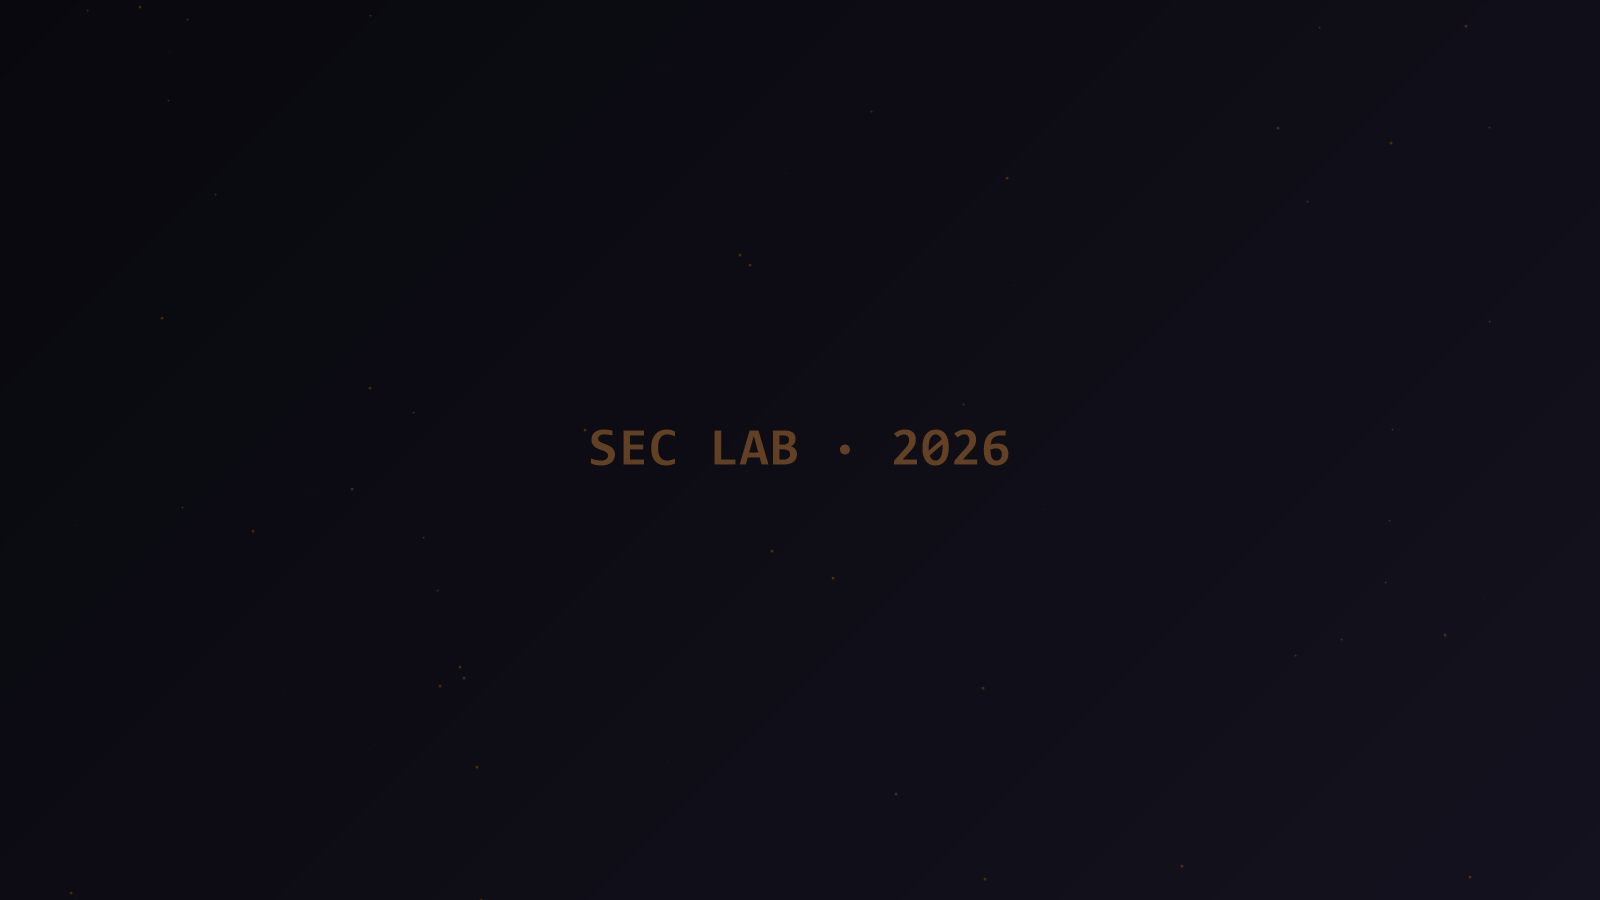
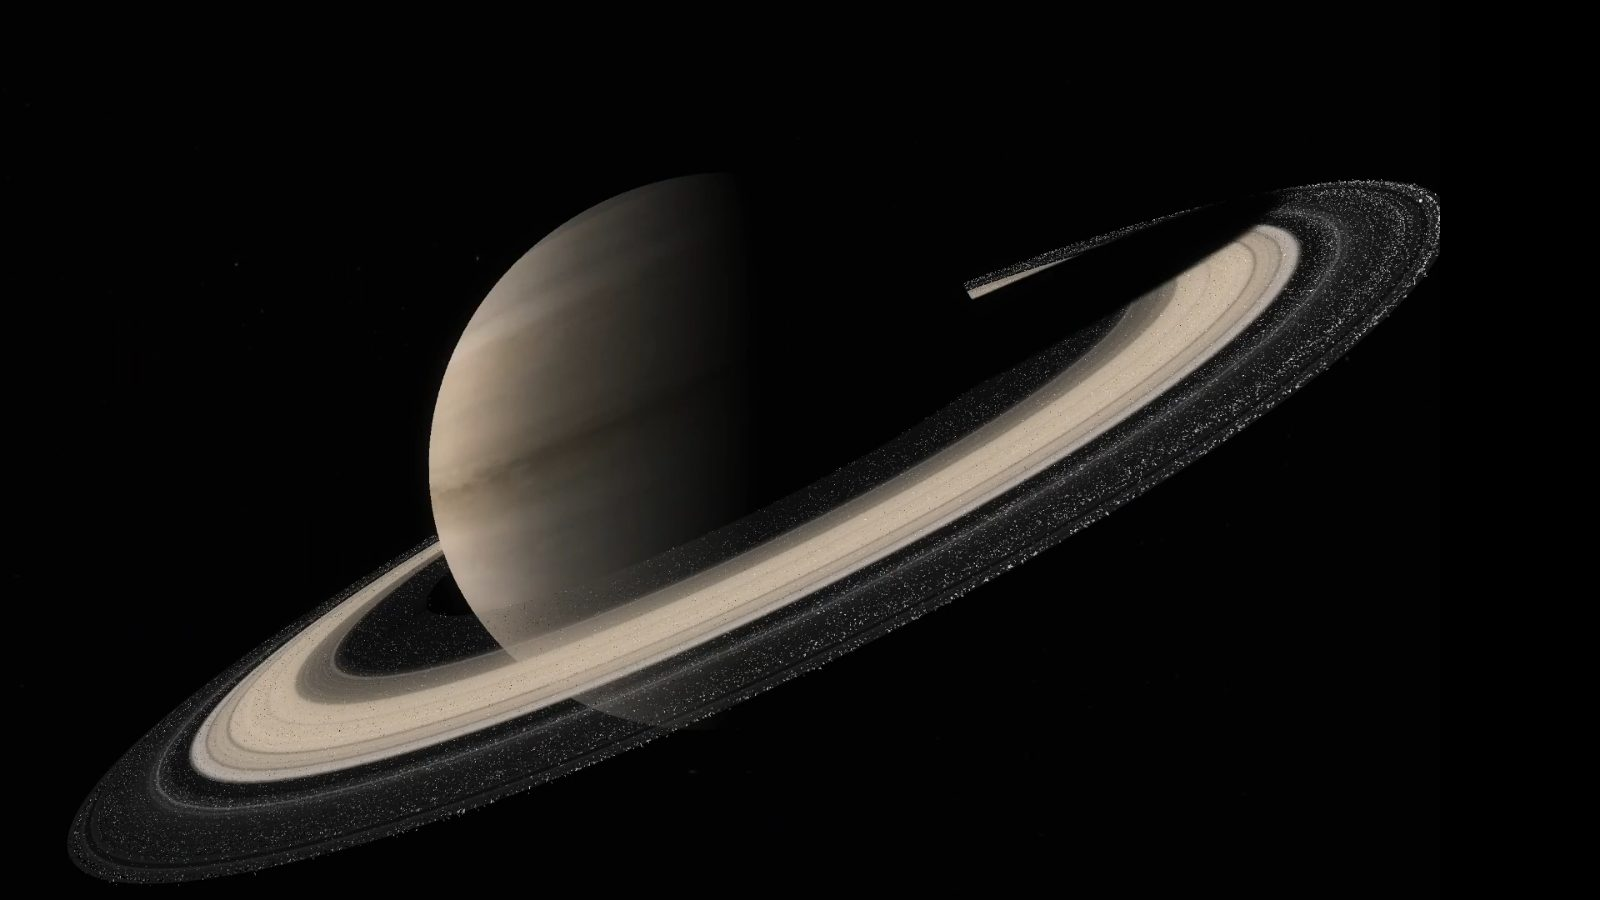
feat(research): 活动栏目背景改用视频截帧（行星），含移动端竖版；去除全屏请求

diff --git a/src/scripts/landscape.js b/src/scripts/landscape.js
@@ -6,9 +6,10 @@
  * 实现：
  *   - 仅对触屏移动设备生效（桌面端不受影响）；
  *   - 竖屏时动态注入一个全屏遮罩，覆盖所有内容并拦截点击；
- *   - 遮罩内提供「自动横屏」按钮：请求全屏并锁定横屏方向
- *     （Android Chrome 支持；iOS Safari 不支持元素级全屏/方向锁，
- *      此时按钮无效，仍提示用户手动旋转）；
+ *   - 遮罩内提供「自动横屏」按钮：仅尝试锁定横屏方向，**绝不请求全屏**
+ *     （请求全屏会导致 QQ/UC/百度等 X5 内核把页面内的 <video> 提升为
+ *      原生全屏播放器且需手动退出）。方向锁通常要求全屏，故多数浏览器
+ *      会失败，此时按钮改为提示「请手动旋转手机」；
  *   - 横屏时遮罩自动移除，恢复正常使用；
  *   - 监听 resize 与 orientationchange，即时响应方向变化。
  *   - 对外暴露 window.SecRequestLandscape()，供「进入」等用户手势调用。

diff --git a/index.html b/index.html
@@ -22,7 +22,7 @@
     <link rel="stylesheet" href="./src/styles/headquarters.css" />
     <link rel="stylesheet" href="./src/styles/member.css" />
     <link rel="stylesheet" href="./src/styles/department.css" />
-    <link rel="stylesheet" href="./src/styles/research.css?v=20260923c" />
+    <link rel="stylesheet" href="./src/styles/research.css?v=20260923d" />
     <link rel="stylesheet" href="./src/styles/modal.css" />
     <link rel="stylesheet" href="./src/styles/particle.css" />
     <link rel="stylesheet" href="./src/styles/mobile.css?v=20260923c" />
@@ -654,7 +654,7 @@
             x5-video-player-fullscreen="false"
             disablepictureinpicture
             preload="metadata"
-            poster="./assets/images/backgrounds/research_poster.jpg"
+            poster="./assets/images/backgrounds/research_poster.jpg?v=20260923d"
           >
             <source src="./assets/images/ui/vedio/Video Project.mp4" type="video/mp4" />
           </video>

diff --git a/src/styles/research.css b/src/styles/research.css
@@ -24,9 +24,16 @@
 
 .research-screen__bg {
   overflow: hidden;
-  background-image: url("../../assets/images/backgrounds/research_poster.jpg");
+  background-image: url("../../assets/images/backgrounds/research_poster.jpg?v=20260923d");
   background-size: cover;
   background-position: center;
+}
+
+/* 竖屏（手机未旋转时）用专门的竖版裁切，让行星居中而非被横版封面裁掉 */
+@media (orientation: portrait) {
+  .research-screen__bg {
+    background-image: url("../../assets/images/backgrounds/research_poster_mobile.jpg?v=20260923d");
+  }
 }
 
 .research-screen__bg::after {

diff --git a/CHANGELOG.md b/CHANGELOG.md
@@ -51,3 +51,4 @@
 - 活动视频增加兜底：任何情况下只要不在活动栏目被播放，立即暂停并移除 `autoplay`。
 - 静态资源加版本号（`?v=`）破除 4 小时缓存（Cloudflare `max-age=14400`），确保更新后手机端及时生效。
 - 移动端活动栏目改为**仅封面图**：QQ/UC/百度等 X5 内核无法内联播放 `<video>`，会弹出原生全屏播放器且需手动退出；现移动端完全不加载/不播放该视频，只显示封面（桌面端仍正常播放）。同时移除横屏守卫中所有 `requestFullscreen` 调用，仅保留手动旋转提示，杜绝全屏副作用。
+- 活动栏目封面换成从活动视频中截取的行星帧（横版 `research_poster.jpg`、竖版 `research_poster_mobile.jpg`），替换原先近乎空白的星空图，手机端背景不再空荡。
